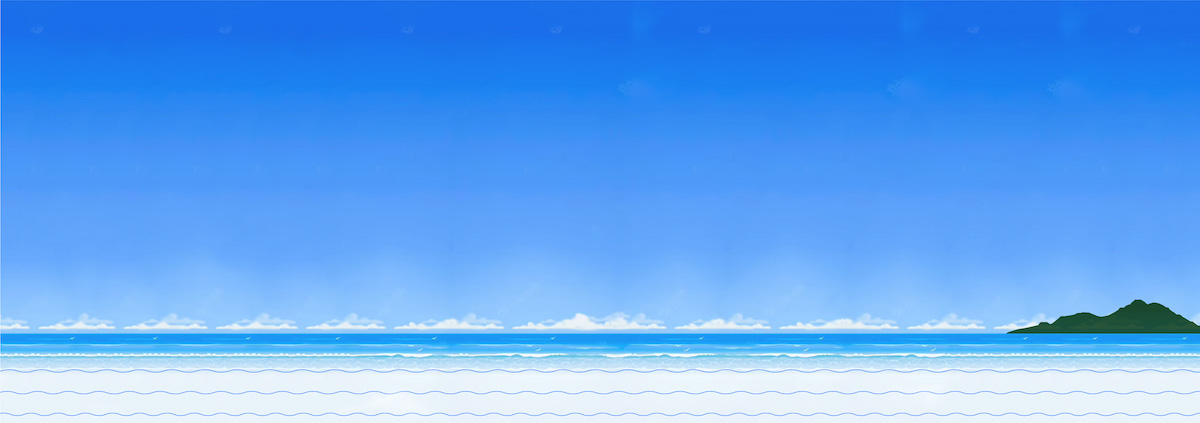
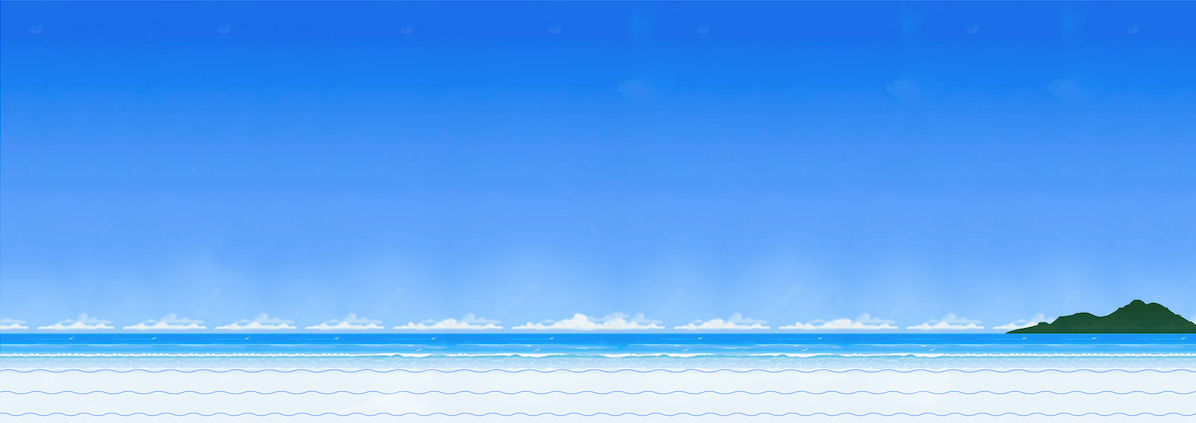
更新

diff --git a/css/layout.css b/css/layout.css
@@ -1611,9 +1611,9 @@ section#customized #customerBox .the_bed_style_box .bed_style_item .customer_tex
 section#newsBox {
   background-color: transparent;
   position: relative;
-  background-image: url('../images/news_bg.jpg?230620-2');
-  background-size: cover;
-  background-position: center;
+  background-image: url('../images/news_bg.jpg?230620-3');
+  background-size: contain;
+  background-position: right;
   color: #2f5575;
   padding: 30px 15px;
 }

diff --git a/index.html b/index.html
@@ -7,7 +7,7 @@
     <title>製床所御品 - 首頁</title>
     <script src="js/jquery-2.2.4.min.js"></script>
     <link rel="stylesheet" href="css/normalize.css">
-    <link rel="stylesheet" href="css/layout.css?230620-8">
+    <link rel="stylesheet" href="css/layout.css?230620-9">
     <link rel="icon" type="image/png" href="images/favicon.png">
 
     <!-- fontawesome -->
